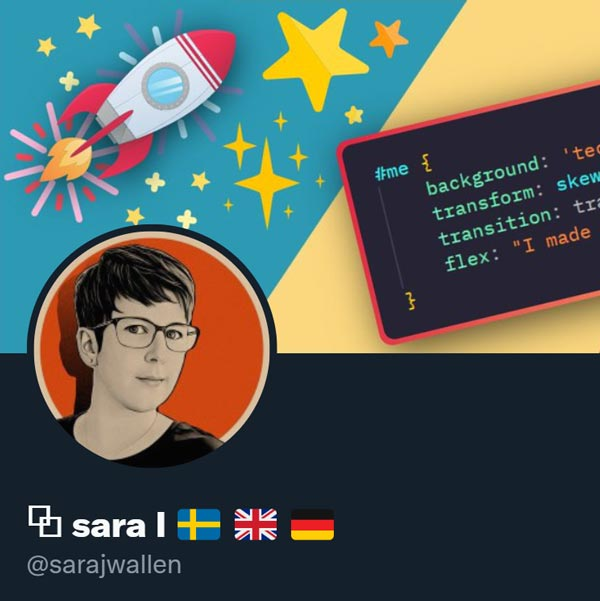
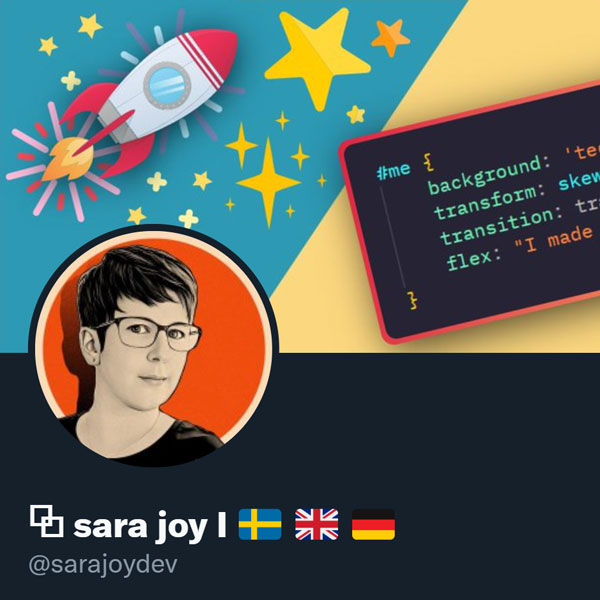
fixed: disappearing led, twitter card, some blog formatting, blog index pics

diff --git a/src/styles/global.css b/src/styles/global.css
@@ -262,7 +262,7 @@ section > article ul {
 	background-color: var(--header);
 	margin: 0 auto;
 	padding-bottom: 0;
-	font-size: 2.2vh;
+	font-size: 2.25vh;
 	overflow: hidden;
 }
 #hero article {
@@ -564,10 +564,13 @@ dialog::-webkit-scrollbar-corner {
 	transform: translate(1px, 1px);
 	box-shadow: 2px 2px 10px -9px black;
 }
+#blog li > a {
+	flex: none;
+}
 #blog img {
 	display: block;
-	max-width: 15rem;
-	max-height: 15rem;
+	width: 15rem;
+	height: 15rem;
 	object-fit: cover;
 }
 #blog li div {

diff --git a/src/pages/blog/job-application-tips.md b/src/pages/blog/job-application-tips.md
@@ -7,9 +7,9 @@ heroImage: "/images/blog/passionfeet.jpg"
 caption: "Two pairs of shoed feet standing on pavement slabs, on which the words PASSION LED US HERE are painted in red."
 ---
 
-_Photo by [Ian Schneider](https://unsplash.com/ja/@goian?utm_source=unsplash&utm_medium=referral&utm_content=creditCopyText) on [Unsplash](https://unsplash.com/s/photos/job-application?utm_source=unsplash&utm_medium=referral&utm_content=creditCopyText)_
+_(Photo by [Ian Schneider](https://unsplash.com/ja/@goian?utm_source=unsplash&utm_medium=referral&utm_content=creditCopyText) on [Unsplash](https://unsplash.com/s/photos/job-application?utm_source=unsplash&utm_medium=referral&utm_content=creditCopyText))_
 
-This blog post has been created from two [twitter](https://twitter.com/sarajwallen) threads of mine, [here](https://twitter.com/sarajwallen/status/1552585642177183744) and [here](https://twitter.com/sarajwallen/status/1552977575756136449):
+This blog post has been created from two [twitter](https://twitter.com/sarajoydev) threads of mine, [here](https://twitter.com/sarajoydev/status/1552585642177183744) and [here](https://twitter.com/sarajoydev/status/1552977575756136449):
 
 ## How to score an interview:
 

diff --git a/src/pages/blog/100days.md b/src/pages/blog/100days.md
@@ -15,7 +15,7 @@ image: twitter.png
 caption: Profile picture of my twitter account
 --- -->
 
-Want to see more? I post other stuff too: [@sarajwallen](https://twitter.com/sarajwallen) :)
+Want to see more? I post other stuff too: [@sarajoydev](https://twitter.com/sarajoydev) :)
 
 <div class="tweet">
 
@@ -926,4 +926,4 @@ Day 1/100 - setting myself up to have a play with @nextjs
 
 Smart to skip over React entirely to play here first? Who knows! Don’t know until I try…
 
-</div><div class="tweet">
+</div>
